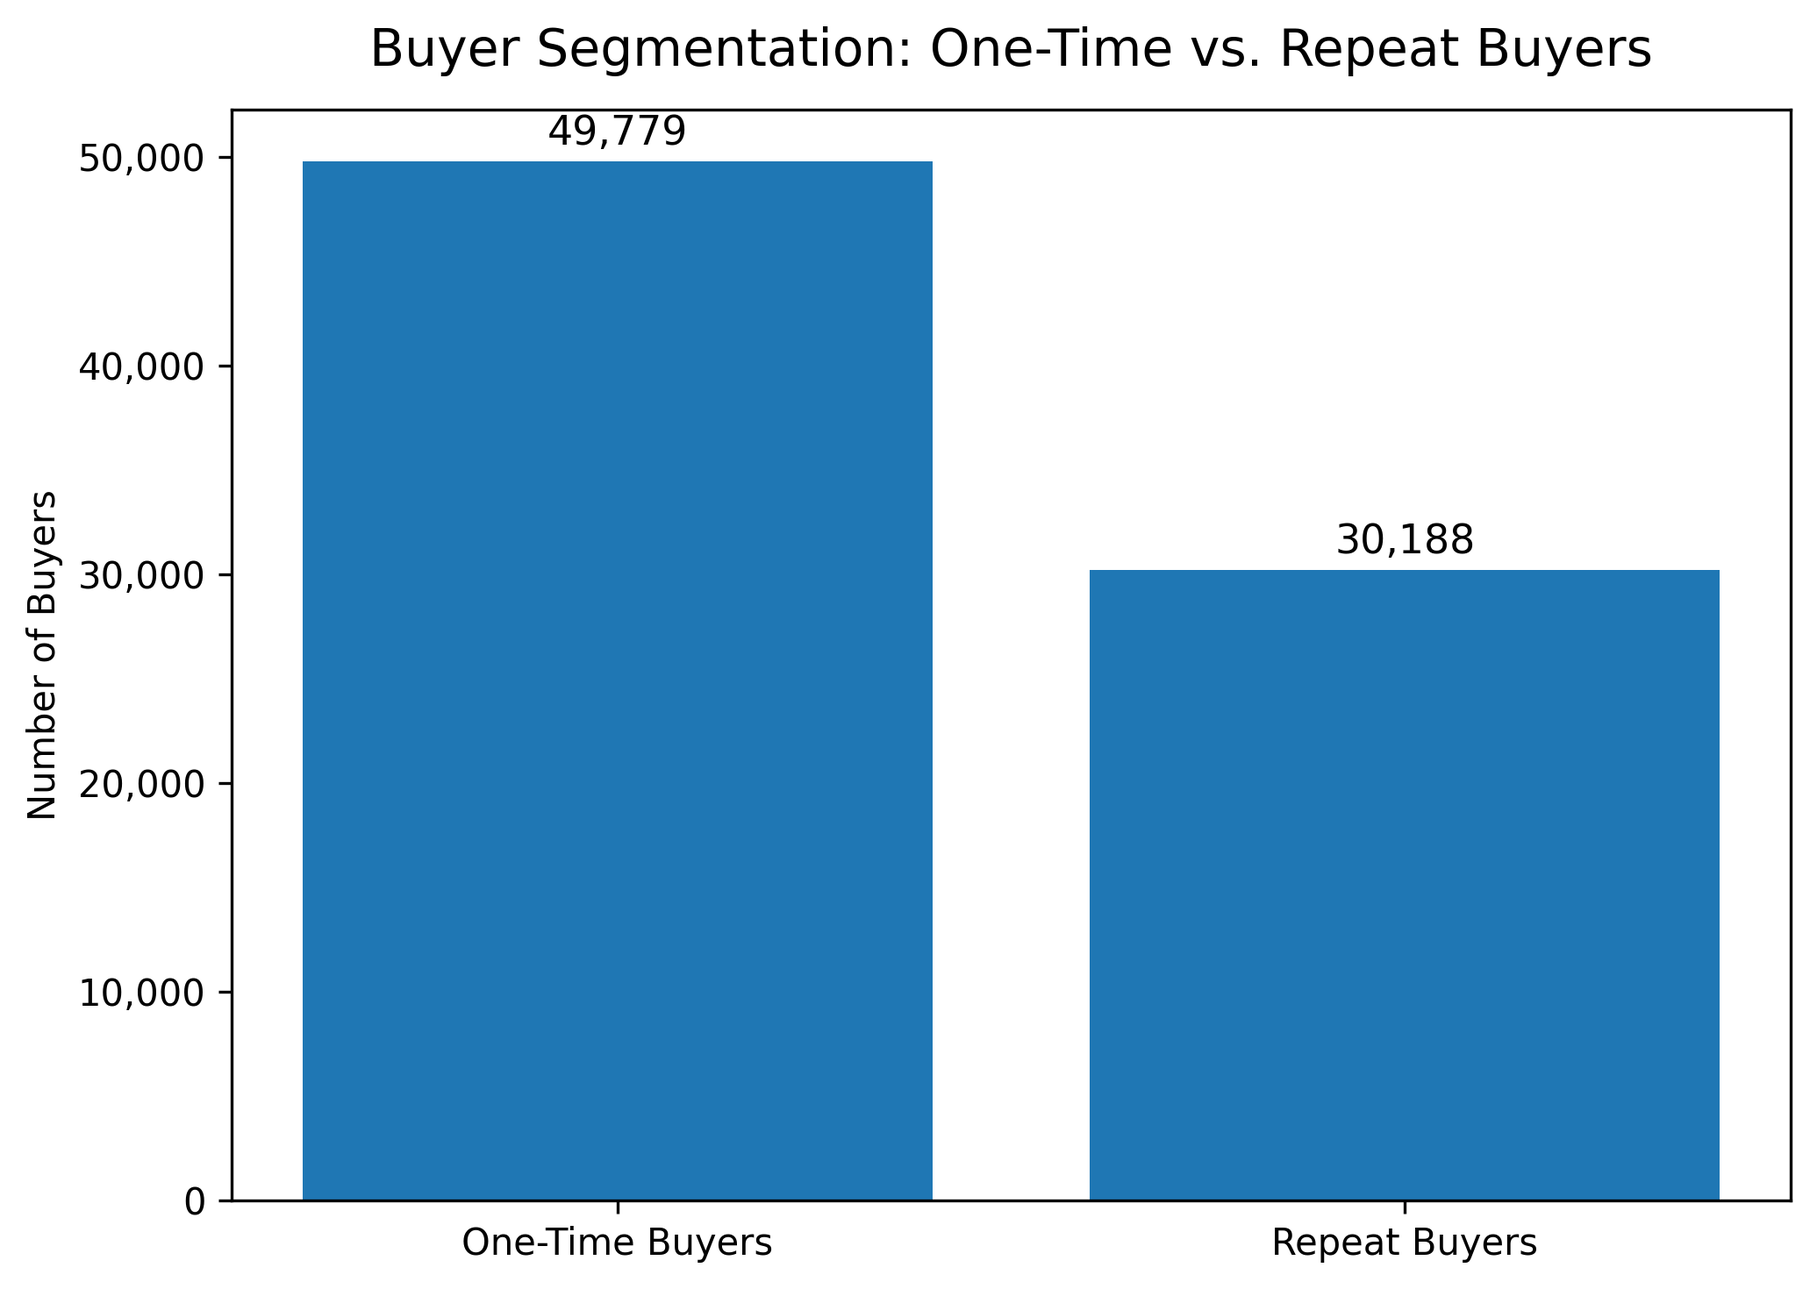
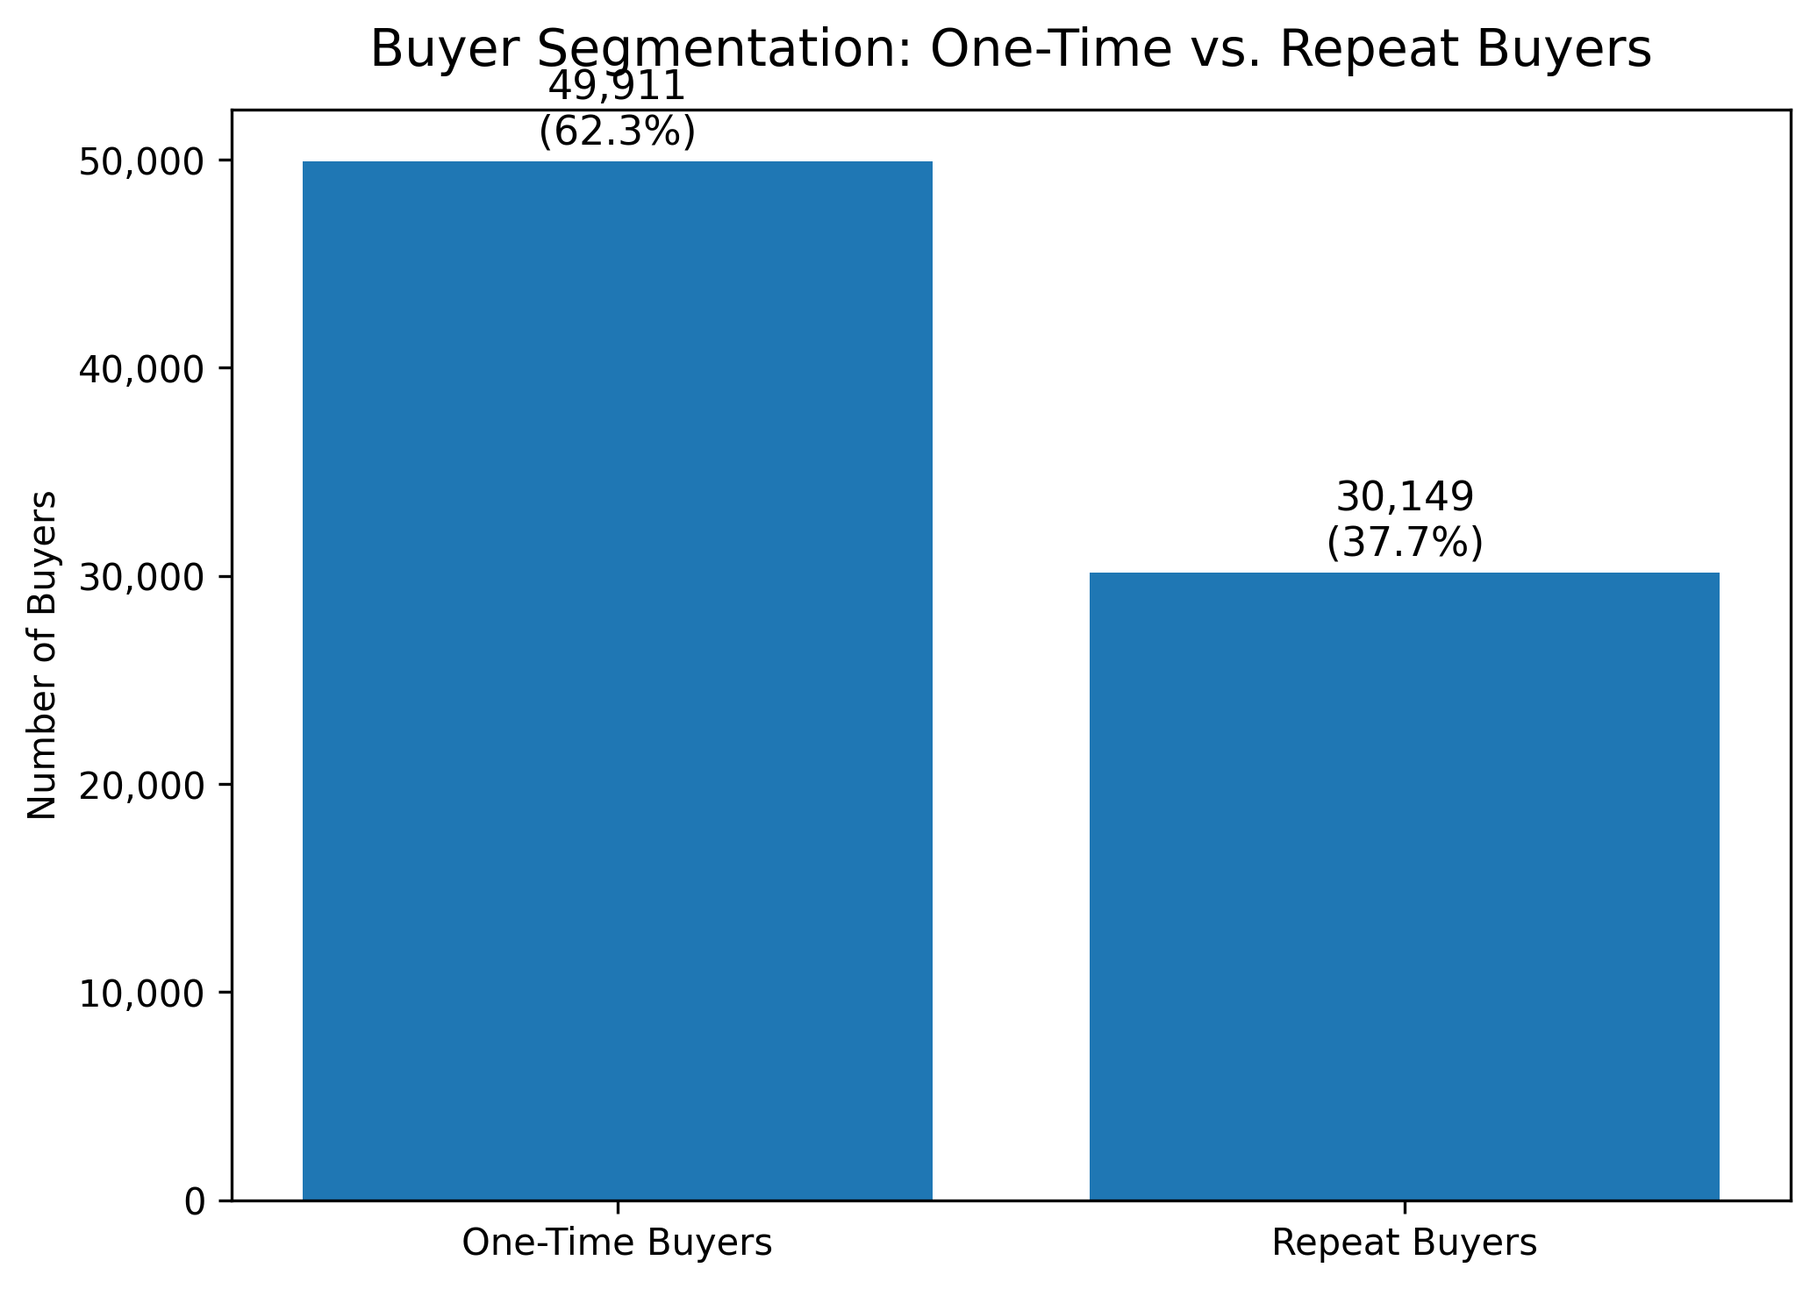
Address review findings and polish README
- README: add Funnel, Post-Purchase, Margin Mix, A/B Test Design, and
  Unit Economics Waterfall sections; expand Key Findings table from 6
  to 11 rows; update Repository Structure to list all 12 src scripts;
  add Reproducing This Project section with step-by-step commands;
  add synthetic dataset caveat and funnel browse-to-cart data caveat
- build_margin_mix_scenarios: replace hardcoded 7.4 in SQL with
  {DATASET_YEARS} f-string interpolation so the constant stays in sync
- build_experiment_recommendations: replace unweighted category average
  with true platform repeat rate derived from customer_purchase_summary.csv
  (37.7% vs ~37.5% prior; now consistent with core metrics)
- create_core_metric_charts: monthly revenue y-axis uses $K format;
  buyer repeat split bars now show count + percentage label
- create_product_value_charts: quadrant-based annotation offsets reduce
  label overlap in revenue_margin_quadrant and lifetime_margin_vs_repeat_rate

diff --git a/src/create_product_value_charts.py b/src/create_product_value_charts.py
@@ -128,19 +128,22 @@ def chart_lifetime_margin_vs_repeat() -> None:
         linewidths=0.5,
     )
 
+    # Mean reference lines — computed first so annotation offsets can use them
+    mean_rr = df["repeat_buyer_rate"].mean()
+    mean_lm = df["avg_lifetime_margin"].mean()
+
     for _, row in df.iterrows():
+        dx = 5 if row["repeat_buyer_rate"] >= mean_rr else -5
+        dy = 4 if row["avg_lifetime_margin"] >= mean_lm else -4
         ax.annotate(
             row["first_purchase_category"],
             xy=(row["repeat_buyer_rate"], row["avg_lifetime_margin"]),
-            xytext=(4, 3),
+            xytext=(dx, dy),
             textcoords="offset points",
-            fontsize=7.5,
+            fontsize=7,
             color="#374151",
+            ha="left" if dx > 0 else "right",
         )
-
-    # Mean reference lines
-    mean_rr = df["repeat_buyer_rate"].mean()
-    mean_lm = df["avg_lifetime_margin"].mean()
     ax.axvline(mean_rr, linestyle="--", color="#9CA3AF", linewidth=1, label=f"Mean repeat rate ({mean_rr:.1f}%)")
     ax.axhline(mean_lm, linestyle="--", color="#6B7280", linewidth=1, label=f"Mean lifetime margin (${mean_lm:.0f})")
 
@@ -214,15 +217,18 @@ def chart_revenue_margin_quadrant() -> None:
     ax.text(0.02, 0.02, "Niche",              ha="left",  **kw)
     ax.text(0.98, 0.02, "Low-margin volume",  ha="right", **kw)
 
-    # Category labels
+    # Category labels — offset direction based on quadrant to reduce overlap
     for _, row in df.iterrows():
+        dx = 6 if row["net_revenue"] >= avg_rev else -6
+        dy = 4 if row["estimated_net_margin_pct"] >= avg_margin else -4
         ax.annotate(
             row["category"],
             xy=(row["net_revenue"], row["estimated_net_margin_pct"]),
-            xytext=(5, 3),
+            xytext=(dx, dy),
             textcoords="offset points",
-            fontsize=7,
+            fontsize=6.5,
             color="#374151",
+            ha="left" if dx > 0 else "right",
         )
 
     # Format x-axis as $K / $M

diff --git a/src/build_experiment_recommendations.py b/src/build_experiment_recommendations.py
@@ -63,6 +63,7 @@ def load_inputs() -> dict:
     funnel      = read_csv("funnel_by_traffic_source.csv")
     ltv         = read_csv("first_purchase_category_customer_value.csv")
     pp          = read_csv("post_purchase_summary.csv")[0]
+    cust        = read_csv("customer_purchase_summary.csv")[0]
 
     # Funnel aggregates
     total_cart      = sum(int(r["cart_sessions"])     for r in funnel)
@@ -79,11 +80,11 @@ def load_inputs() -> dict:
     total_items  = int(pp["total_items"])
     cancel_items = round(total_items * cancel_rate / 100)
 
-    # Repeat buyer rate (unweighted average across LTV categories)
-    avg_repeat_rate = round(
-        sum(float(r["repeat_buyer_rate"]) for r in ltv) / len(ltv), 1
-    )
-    one_time_pct = round(100 - avg_repeat_rate, 1)
+    # Platform repeat buyer rate — weighted, derived from actual buyer counts
+    _repeat  = int(cust["repeat_buyers"])
+    _total   = _repeat + int(cust["one_time_buyers"])
+    avg_repeat_rate = round(_repeat / _total * 100, 1)
+    one_time_pct    = round(int(cust["one_time_buyers"]) / _total * 100, 1)
 
     # Upside values from scorecard — match on lever_type + lever name fragment.
     # Using lever fragments rather than scenario strings to avoid special-character

diff --git a/src/create_core_metric_charts.py b/src/create_core_metric_charts.py
@@ -31,8 +31,8 @@ ax.plot(df_monthly["order_month"], df_monthly["gross_revenue"], label="Gross Rev
 ax.plot(df_monthly["order_month"], df_monthly["net_revenue"], label="Net Revenue", linewidth=1.5)
 ax.set_title("Monthly Gross vs. Net Revenue (2019–2026)", fontsize=14, pad=12)
 ax.set_xlabel("Month")
-ax.set_ylabel("Revenue ($)")
-ax.yaxis.set_major_formatter(mticker.FuncFormatter(lambda x, _: f"${x:,.0f}"))
+ax.set_ylabel("Revenue")
+ax.yaxis.set_major_formatter(mticker.FuncFormatter(lambda x, _: f"${x / 1_000:.0f}K"))
 ax.xaxis.set_major_locator(mdates.YearLocator())
 ax.xaxis.set_major_formatter(mdates.DateFormatter("%Y"))
 plt.setp(ax.get_xticklabels(), rotation=45, ha="right")
@@ -97,11 +97,13 @@ bars = ax.bar(labels, values)
 ax.set_title("Buyer Segmentation: One-Time vs. Repeat Buyers", fontsize=14, pad=12)
 ax.set_ylabel("Number of Buyers")
 ax.yaxis.set_major_formatter(mticker.FuncFormatter(lambda x, _: f"{x:,.0f}"))
+total = sum(values)
 for bar, value in zip(bars, values):
+    pct = value / total * 100
     ax.text(
         bar.get_x() + bar.get_width() / 2,
         bar.get_height() + 400,
-        f"{value:,}",
+        f"{value:,}\n({pct:.1f}%)",
         ha="center", va="bottom", fontsize=11
     )
 plt.tight_layout()

diff --git a/src/build_margin_mix_scenarios.py b/src/build_margin_mix_scenarios.py
@@ -99,7 +99,7 @@ ORDER BY
 # to margin leader categories (zero-sum: total net revenue unchanged).
 # Margin gain = shifted_revenue × (wtd_avg_margin_leader_pct − wtd_avg_low_margin_pct).
 # margin_uplift_pct_of_baseline = gain expressed as % of total baseline margin.
-SQL_SCENARIO_UPLIFT = """
+SQL_SCENARIO_UPLIFT = f"""
 WITH role_metrics AS (
     SELECT
         cr.strategic_role,
@@ -129,7 +129,7 @@ SELECT
     ROUND(lm.lm_revenue * s.shift_pct / 100.0
           * (hm.hm_pct - lm.lm_pct) / 100.0, 2)                                       AS estimated_margin_gain,
     ROUND((lm.lm_revenue * s.shift_pct / 100.0
-           * (hm.hm_pct - lm.lm_pct) / 100.0) / 7.4, 2)                              AS estimated_margin_gain_annualized,
+           * (hm.hm_pct - lm.lm_pct) / 100.0) / {DATASET_YEARS}, 2)                  AS estimated_margin_gain_annualized,
     'Full dataset period, 2019-2026'                                                   AS impact_period,
     ROUND(p.total_wtd_margin, 2)                                                       AS baseline_total_margin,
     ROUND(p.total_wtd_margin

diff --git a/README.md b/README.md
@@ -4,6 +4,8 @@
 
 Dataset: [theLook eCommerce](https://console.cloud.google.com/marketplace/product/bigquery-public-data/thelook-ecommerce) (Google BigQuery public dataset) — 125,408 orders, 100,000 users, 29,120 products.
 
+> **Note on the dataset:** theLook eCommerce is a synthetic dataset. Revenue figures and trends reflect how the dataset was constructed, not observed real-world business performance. In particular, the accelerating revenue growth visible in 2025–2026 is a property of the synthetic data, not evidence of a real business event.
+
 ---
 
 ## Core Business Question
@@ -25,7 +27,7 @@ Dataset: [theLook eCommerce](https://console.cloud.google.com/marketplace/produc
 | A/B test design | Complete | 3 experiment CSVs | Cart abandonment recovery is top-priority; one-time buyer reactivation is second; cancellation work starts with reason-capture instrumentation |
 | Unit economics waterfall | Complete | 1 waterfall chart | Gross revenue of $10.86M becomes $4.23M estimated net margin after cancellations, returns, and estimated product cost |
 | Tableau / dashboard | Not started | — | Visual portfolio layer |
-| Final review / defense | Not started | — | Defender + critic + reconciliation passes before final polish |
+| Final review / defense | In progress | — | Defender + critic + reconciliation passes before final polish |
 
 ---
 
@@ -39,6 +41,60 @@ Dataset: [theLook eCommerce](https://console.cloud.google.com/marketplace/produc
 | GitHub | Version control and portfolio presentation |
 
 Raw tables are downloaded once from BigQuery into `data/` (git-ignored) and queried locally via DuckDB — no repeated cloud queries needed.
+
+---
+
+## Reproducing This Project
+
+**Prerequisites:** Python 3.10+, a Google Cloud project with BigQuery access to `bigquery-public-data.thelook_ecommerce`.
+
+```bash
+# 1. Install dependencies
+pip install -r requirements.txt
+
+# 2. Download the 7 raw tables from BigQuery into data/raw/
+#    Tables: orders, order_items, users, products, events,
+#            inventory_items, distribution_centers
+#    Export each as CSV from the BigQuery console or bq CLI.
+
+# 3. Clean encoding and validate
+python src/clean_raw_csv_encoding.py
+python src/validate_raw_data.py
+
+# 4. Core business metric CSVs (Phase 2)
+#    Run sql/02_core_business_metrics.sql in BigQuery and download
+#    the 5 result CSVs into outputs/tables/:
+#      overall_business_summary.csv, monthly_business_metrics.csv,
+#      category_business_metrics.csv, customer_purchase_summary.csv,
+#      order_status_rates.csv
+python src/create_core_metric_charts.py
+
+# 5. Product / customer value analysis
+python src/build_product_value_analysis.py
+python src/create_product_value_charts.py
+
+# 6. Funnel analysis
+python src/build_funnel_analysis.py
+python src/create_funnel_charts.py
+
+# 7. Post-purchase loss analysis
+python src/build_post_purchase_analysis.py
+python src/create_post_purchase_charts.py
+
+# 8. Margin mix scenarios and growth lever scorecard
+#    (requires outputs from steps 5, 6, 7)
+python src/build_margin_mix_scenarios.py
+
+# 9. A/B experiment designs
+#    (requires outputs from steps 5, 6, 7, 8)
+python src/build_experiment_recommendations.py
+
+# 10. Unit economics waterfall chart
+#     (requires outputs from steps 7, 8)
+python src/create_unit_economics_waterfall.py
+```
+
+All chart outputs write to `outputs/figures/`. All intermediate CSV outputs write to `outputs/tables/` (git-ignored; local only).
 
 ---
 
@@ -69,7 +125,7 @@ Only 37.7% of customers make more than one purchase. The majority of revenue com
 ![Buyer Repeat Split](outputs/figures/buyer_repeat_split.png)
 
 **Order Status Distribution**
-~10% of orders are returned and ~15% are cancelled — a combined ~25% loss rate that directly compresses net revenue and margin.
+~10% of orders are returned and ~15% are cancelled — a combined ~25% loss rate that directly compresses net revenue and margin. "Shipped" and "Processing" orders represent in-flight orders at the time of the dataset snapshot.
 
 ![Order Status](outputs/figures/order_status_distribution.png)
 
@@ -101,7 +157,98 @@ Summary of how the 26 categories distribute across strategic roles based on reve
 
 ---
 
-## Key Findings So Far
+### Phase 3 — Funnel Analysis
+
+Session-level conversion analysis across all five traffic sources using the `events` table.
+
+> **Data caveat:** Every session in this dataset contains at least one product-page view event. As a result, the browse-to-cart rate measures conversion among sessions that already reached a product page — it is not a true top-of-funnel drop-off rate. The cart-to-purchase rate is unaffected by this limitation.
+
+**Funnel Stage Volumes by Traffic Source**
+Email is the largest traffic source by session volume. All five channels (Email, Adwords, YouTube, Facebook, Organic) follow a similar funnel shape.
+
+![Funnel Volumes](outputs/figures/funnel_stage_volumes_by_source.png)
+
+**Conversion Rates by Traffic Source**
+Browse-to-cart (~63%) and cart-to-purchase (~42%) rates are flat across all five channels. There is no channel-specific conversion problem — funnel performance is uniform platform-wide.
+
+![Conversion Rates](outputs/figures/conversion_rates_by_source.png)
+
+**Overall Purchase Funnel — Session Drop-Off**
+Of 681,667 total sessions, 432,099 (63%) added to cart. Of those, only 181,667 (42%) completed a purchase. The 58% cart abandonment rate is the primary conversion leak.
+
+![Funnel Waterfall](outputs/figures/funnel_overall_waterfall.png)
+
+---
+
+### Phase 4 — Post-Purchase Loss Analysis
+
+Cancellation and return rates analyzed by category, order value, customer type, and distribution center.
+
+**Gross Revenue Breakdown**
+Of $10.86M gross revenue, $1.63M (15.0%) was lost to cancellations and $1.07M (9.9%) to returns — a combined $2.7M post-purchase revenue loss.
+
+![Revenue Loss Breakdown](outputs/figures/post_purchase_revenue_loss_breakdown.png)
+
+**Post-Purchase Loss Rates by Category**
+Cancellation (13.8%–15.9%) and return (8.1%–11.3%) rates are nearly identical across all 26 categories. There is no category lever to pull — this is a platform-wide structural problem.
+
+![Rates by Category](outputs/figures/post_purchase_rates_by_category.png)
+
+**Post-Purchase Loss Rates by Order Value**
+Loss rates are flat across all order value bands (< $50 through $200+). High-value orders cancel and return at the same rate as low-value orders.
+
+![Loss by Order Value](outputs/figures/post_purchase_loss_by_order_value.png)
+
+Additional cuts (not charted) confirm: new and repeat customers cancel and return at identical rates (~15% / ~10%), and all 10 distribution centers show uniform delivery timing and loss rates.
+
+---
+
+### Phase 5 — Margin Mix Scenario Analysis
+
+Scenario modeling of five growth levers: margin mix shift, cart-to-purchase conversion, repeat purchase improvement, cancellation reduction, and return reduction. All impact figures are cumulative over the full 2019–2026 dataset period; annualized figures divide by 7.4 years.
+
+| Lever | Scenario | Annualized Margin Upside | Math Confidence | Execution Confidence |
+|---|---|---|---|---|
+| Cart-to-purchase +1pp | +1pp conversion rate | ~$14K/yr | High | Medium |
+| Cart-to-purchase +5pp | +5pp conversion rate | ~$68K/yr | High | Low |
+| Repeat orders +5% | +5% more repeat purchases | ~$10K/yr | Medium | Medium |
+| Repeat orders +10% | +10% more repeat purchases | ~$21K/yr | Medium | Low |
+| Cancellation rate −1pp | Recover 1pp of cancelled items | ~$8K/yr | High | Low |
+| Return rate −1pp | Recover 1pp of returned items | ~$8K/yr | High | Low |
+| Margin mix shift 10% | Shift 10% of low-margin to high-margin | ~$5K/yr | Medium | Low |
+
+The full scorecard with assumption notes and feasibility ratings is in `outputs/tables/growth_lever_scorecard.csv`.
+
+---
+
+### Phase 6 — A/B Test Design
+
+Four experiment designs grounded in the growth lever scorecard, each with hypothesis, target segment, control/treatment definition, primary metric, guardrail metrics, upside estimate, and risk caveats.
+
+| ID | Experiment | Lever | Annualized Upside | Launch Priority |
+|---|---|---|---|---|
+| EXP-001 | Cart abandonment recovery email | Conversion | ~$14K/yr | 1st |
+| EXP-002 | One-time buyer reactivation campaign | Retention | ~$10K/yr | 2nd |
+| EXP-004 | Cancellation reason capture (Phase A instrumentation) | Post-purchase | ~$8K/yr (Phase B) | 3rd |
+| EXP-003 | High-margin category merchandising test | Product mix | ~$456/yr | 4th |
+
+EXP-004 is instrumentation-first: the cancellation rate is flat across all segments, meaning the root cause is unknown. Phase A (add a reason-selection step to the cancel flow) must precede any intervention design.
+
+Full experiment designs are in `outputs/tables/experiment_designs.csv`. Metric definitions (4 primary, 9 guardrail) are in `outputs/tables/experiment_metric_definitions.csv`.
+
+---
+
+### Unit Economics Waterfall
+
+Single executive visual tracing $10.86M gross revenue to $4.23M estimated net margin.
+
+Product cost is estimated using the platform blended margin rate of 51.9% (weighted average derived from actual product cost data across all 26 categories).
+
+![Unit Economics Waterfall](outputs/figures/unit_economics_waterfall.png)
+
+---
+
+## Key Findings
 
 | Finding | Implication |
 |---------|-------------|
@@ -111,26 +258,39 @@ Summary of how the 26 categories distribute across strategic roles based on reve
 | Jeans: #2 in revenue ($949K) but 5+ points below average margin | Largest single margin leak in the catalog |
 | Blazers & Jackets: highest margin % (62%) but underscaled | Scaling this category would improve the overall margin mix |
 | Socks / Underwear: 61–74% of LTV comes post-first-order | Most durable categories, but absolute LTV is low ($24–35) |
+| 58% cart abandonment rate; flat across all 5 traffic channels | Cart-to-purchase conversion is the highest-ROI lever; channel mix does not explain the drop-off |
+| Post-purchase loss rates flat across all 26 categories, all order value bands, new vs. repeat customers, and all 10 distribution centers | No targetable segment or category lever — this requires a root-cause investigation (reason capture), not a targeted intervention |
+| Cart-to-purchase +1pp = ~$14K/yr annualized margin upside; +5pp = ~$68K/yr | Highest-confidence, highest-feasibility growth lever |
+| Pure margin mix shift has limited upside: 10% shift = ~$5K/yr | Fashion demand is category-sticky; a mix-shift test is a learning experiment, not a margin program |
+| Gross revenue of $10.86M → $4.23M estimated net margin (39% of gross) | Cancellations + returns + product cost consume 61% of gross revenue |
 
 ---
 
 ## Repository Structure
 
 ```
-├── sql/                     # Reference SQL (BigQuery syntax)
-├── src/                     # Python scripts for analysis and charts
-│   ├── clean_raw_csv_encoding.py
-│   ├── validate_raw_data.py
-│   ├── build_product_value_analysis.py
-│   └── create_product_value_charts.py
+├── sql/                            # Reference SQL (BigQuery syntax)
+│   └── 02_core_business_metrics.sql
+├── src/                            # Python scripts — analysis and charts
+│   ├── clean_raw_csv_encoding.py       # Decode raw BigQuery CSVs to clean UTF-8
+│   ├── validate_raw_data.py            # Validate processed files with DuckDB
+│   ├── create_core_metric_charts.py    # Core business metric charts (Phase 1)
+│   ├── build_product_value_analysis.py # Product / customer value queries (Phase 2)
+│   ├── create_product_value_charts.py  # Product value charts (Phase 2)
+│   ├── build_funnel_analysis.py        # Funnel / conversion queries (Phase 3)
+│   ├── create_funnel_charts.py         # Funnel charts (Phase 3)
+│   ├── build_post_purchase_analysis.py # Post-purchase loss queries (Phase 4)
+│   ├── create_post_purchase_charts.py  # Post-purchase charts (Phase 4)
+│   ├── build_margin_mix_scenarios.py   # Margin mix scenarios + growth lever scorecard (Phase 5)
+│   ├── build_experiment_recommendations.py  # A/B experiment designs (Phase 6)
+│   └── create_unit_economics_waterfall.py   # Unit economics waterfall chart
 ├── outputs/
-│   ├── tables/              # CSV outputs from each analysis
-│   └── figures/             # PNG charts
+│   ├── tables/              # CSV outputs from each analysis (git-ignored; local only)
+│   └── figures/             # PNG charts (committed)
 ├── reports/                 # Metric definitions and reference docs
 ├── PROJECT_PLAN.md          # Full project scope and phase definitions
 ├── PROJECT_STATE.md         # Living handoff doc — current status and next steps
 └── requirements.txt
 ```
 
-> `data/` is git-ignored. Raw and processed CSVs live locally only.
-
+> `data/` is git-ignored. Raw and processed CSVs live locally only. `outputs/tables/` is also git-ignored; only chart PNGs are committed.
